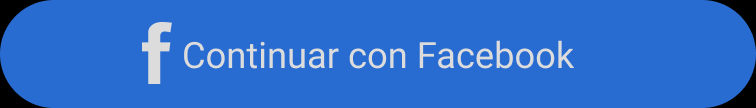
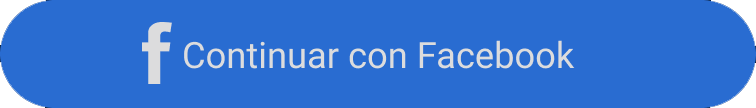
login casi listo, falta animacion login exitoso

diff --git a/tp2/html/login.html b/tp2/html/login.html
@@ -24,9 +24,9 @@
         </section>
         <h2>En caso de no tener aun una cuenta en Rattata Games...</h2>
         <section class="opcionesRegistro">
-            <button class="btn-IrAregistro">Registrarme aqui</button>
-            <button class="ingresoFb">Ingresa con Facebook</button>
-            <button class="ingresoGg">Ingresa con Google</button>
+            <a href="../html/register.html"> <img src="../img/buttons/registro.png" class="btn-registros"></a>
+            <a><img src="../img/buttons/btnFacebook.png" class="btn-registros"></a>
+            <a><img src="../img/buttons/btnGoogle.png" class="btn-registros"></a>
         </section>
 
     </main>

diff --git a/tp2/css/style.css b/tp2/css/style.css
@@ -145,12 +145,14 @@ header{
   display: flex;
   flex-direction: column;
   align-items: center;
-  margin: 20px;
+  margin: 50px;
 }
 .loginForm h3{
   margin:10px;
 }
 .loginForm input{
+  height: 40px;
+  width: 300px;
   margin: 10px;
   border-radius: 15px;
   color: #DCDCDD;
@@ -163,6 +165,11 @@ header{
 }
 .opcionesRegistro input{
   margin: 30px;
+}
+.btn-registros{
+  width: 300px;
+  height: 40px;
+  margin: 10px;
 }
 
 body{
